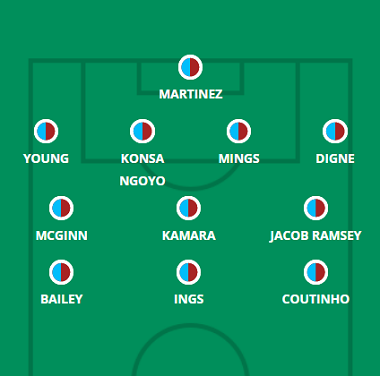
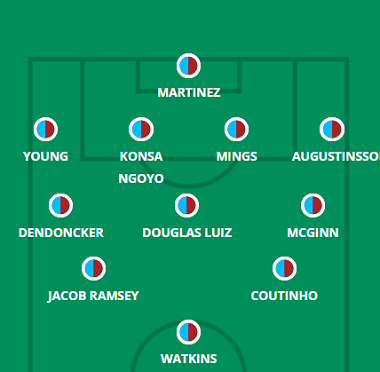
aston e fulham

diff --git a/aston.html b/aston.html
@@ -68,7 +68,7 @@
             <hgroup>
                 <h1> Provável Escalação</h1>
                 <h2 class="direita"> por FabioVascão </h2>
-                <h3 class="direita"> Atualizado em 29/Setembro/2022 </h3>
+                <h3 class="direita"> Atualizado em 30/Setembro/2022 </h3>
             </hgroup>
     
             <h2 class="time"> <img src="_fotos/_logos/logoaston.png" />Aston Villa</h2>
@@ -77,9 +77,9 @@
                     <img src="_fotos/_dinamicas/aston.png" />
                 </figure>
             </aside>
-                <div class="escalacao"><h2 class="titulo">Ultimas Notícias</h2> <h4><p>Mais informações em breve.</p></h4><br>
-                    <h4><strong>Jogadores fora da próxima partida:</strong> Bdenarek e Diego Carlos</h4><br><br>
-                    <h4><strong>Jogadores dúvidas:</strong> Cash, Martinez, Olsen e Watkins</h4>
+                <div class="escalacao"><h2 class="titulo">Ultimas Notícias</h2> <h4><p>Diego Carlos (lesão no tendão de aquiles), Boubacar Kamara (lesão no joelho), Lucas Digne (lesão no joelho) e Matty Cash (lesão na coxa) estão todos fora da visita do Aston Villa ao Leeds United, o que deixa os Villans um pouco curtos atrás. Ezri Konsa passar para a lateral direita é uma alternativa para uma estreia completa de Ludwig Augustinsson - Ashley Young pode jogar em qualquer posição de lateral - mas Konsa parecia sólido ao lado de Tyrone Mings nas últimas duas partidas, então Steven Gerrard pode estar relutante para romper a parceria de miolo da zaga em boa forma. O sempre presente John McGinn e, na ausência de Kamara, Douglas Luiz são prováveis titulares no meio-campo central, de onde Jacob Ramsey marcou na 8ª rodada (um dia extra de recuperação) e Emiliano Buendia agora raramente usado no mesmo time de Philippe Coutinho. Gerrard poderia, no entanto, empurrar Ramsey ainda mais para a frente (como fez na rodada 6) e trazer Leander Dendoncker para reforçar um meio-campo que agora está desprovido de um natural 'número seis'. Danny Ings também é uma opção ao lado de Ollie Watkins no ataque se o chefe do Villa optar por ajustar sua formação para um 4-3-1-2, mas ainda não vimos os dois juntos no topo em uma partida fora nesta temporada.</p></h4><br>
+                    <h4><strong>Jogadores fora da próxima partida:</strong> Digne, Kamara e Diego Carlos</h4><br><br>
+                    <h4><strong>Jogadores dúvidas:</strong> Cash</h4>
                 </div> 
         </header>
         </article>

diff --git a/fulham.html b/fulham.html
@@ -68,7 +68,7 @@
             <hgroup>
                 <h1> Provável Escalação</h1>
                 <h2 class="direita"> por FabioVascão </h2>
-                <h3 class="direita"> Atualizado em 29/Setembro/2022 </h3>
+                <h3 class="direita"> Atualizado em 30/Setembro/2022 </h3>
             </hgroup>
     
             <h2 class="time"> <img src="_fotos/_logos/logofulham.png" />Fulham</h2>
@@ -77,9 +77,9 @@
                     <img src="_fotos/_dinamicas/fulham.png" />
                 </figure>
             </aside>
-                <div class="escalacao"><h2 class="titulo">Ultimas Notícias</h2> <h4><p>Mais informações em breve.</p></h4><br>
+                <div class="escalacao"><h2 class="titulo">Ultimas Notícias</h2> <h4><p>Manor Solomon (lesão no joelho) e Harry Wilson (lesão no joelho) continuam afastados e João Palhinha está suspenso, mas Antonee Robinson (lesão no tornozelo) voltou a treinar nas últimas duas semanas e pode ocupar o lugar de Issa Diop na defesa, com Tim Ream a regressar ao centro- metade. Marco Silva só relatou "batidas" quando perguntado sobre as notícias do Fulham, e Aleksandar Mitrovic pode estar entre os afetados: o atacante em forma foi visto mancando com uma bolsa de gelo no tornozelo após a vitória da Sérvia sobre a Noruega na terça-feira , embora essa precaução pós-jogo seja bastante comum nos dias de hoje. É uma escolha entre Tom Cairney, o mais defensivo Nathaniel Chalobah ou um reposicionado Andreas Pereira para o meio-campo deixado vago pelo banido Palhinha, mas as coisas parecem menos prováveis de mudar além disso, dada a forma dos Cottagers. Todos os jogadores de campo nesta escalação prevista, Chalobah e Willian (que substituiu Neeskens Kebano na jornada 8) começaram todas as partidas para as quais estiveram disponíveis em 2022/23, enquanto Bernd Leno agora parece estabelecido entre os postes depois de substituir Marek Rodak na 3° Rodada. Daniel James poderia substituir Bobby DeCordova-Reid depois que este voltou tarde da seleção com a Jamaica, enquanto Vinicius é o substituto de Mitrovic caso o pior aconteça.</p></h4><br>
                     <h4><strong>Jogadores fora da próxima partida:</strong> Solomon e Harry Wilson</h4><br><br>
-                    <h4><strong>Jogadores dúvidas:</strong>Robinson  </h4>
+                    <h4><strong>Jogadores dúvidas:</strong>Robinson e João Palhinha </h4>
                 </div> 
         </header>
         </article>
